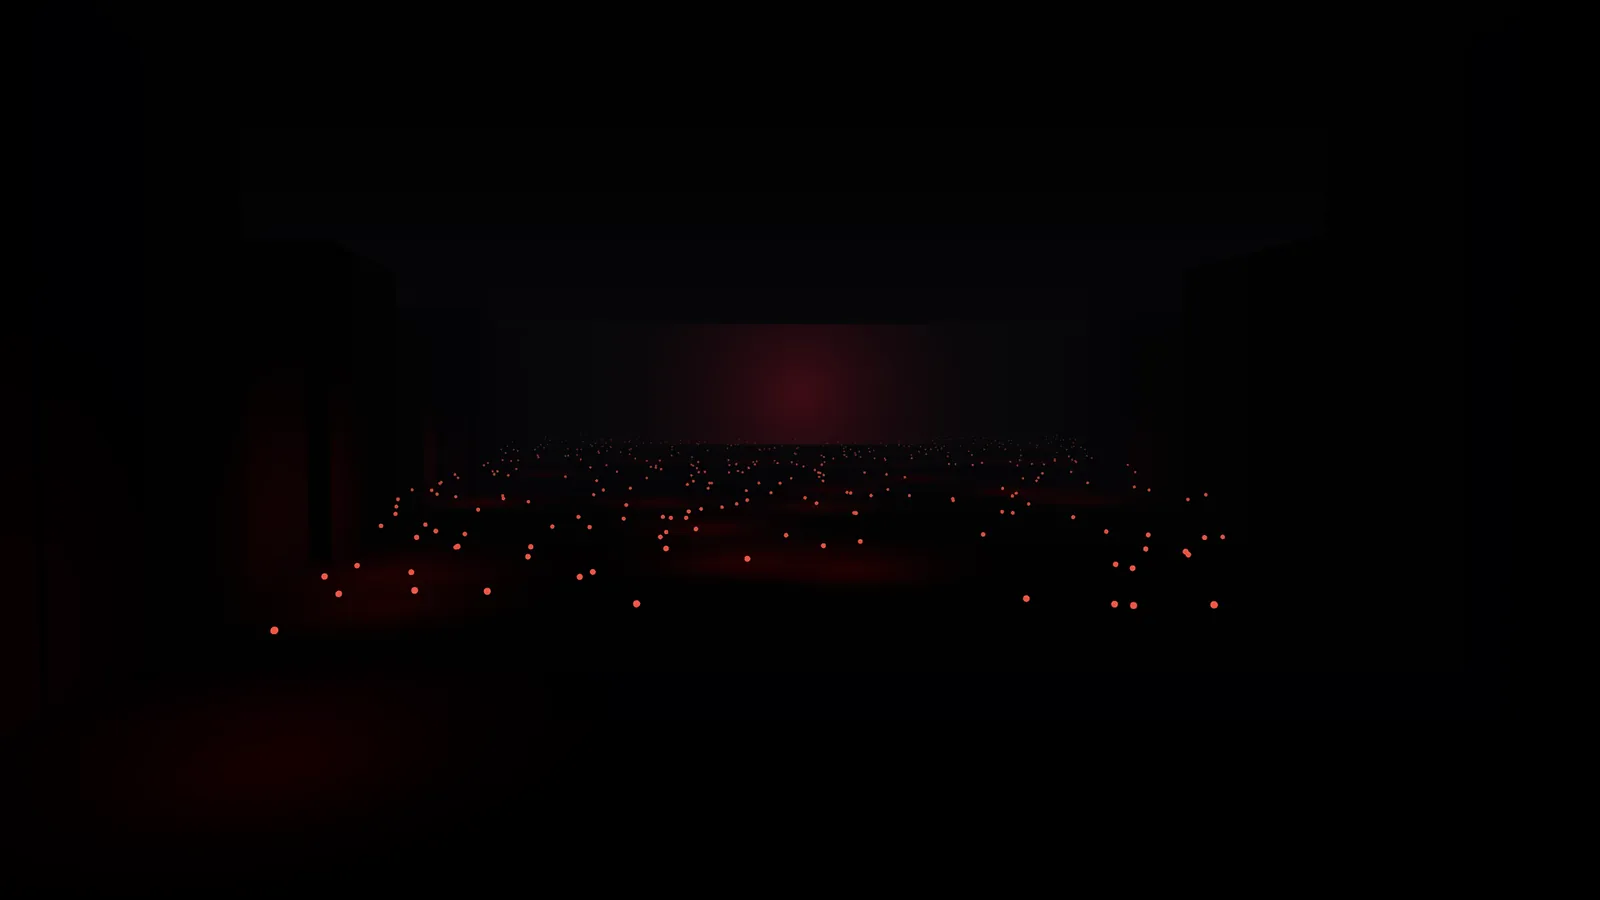
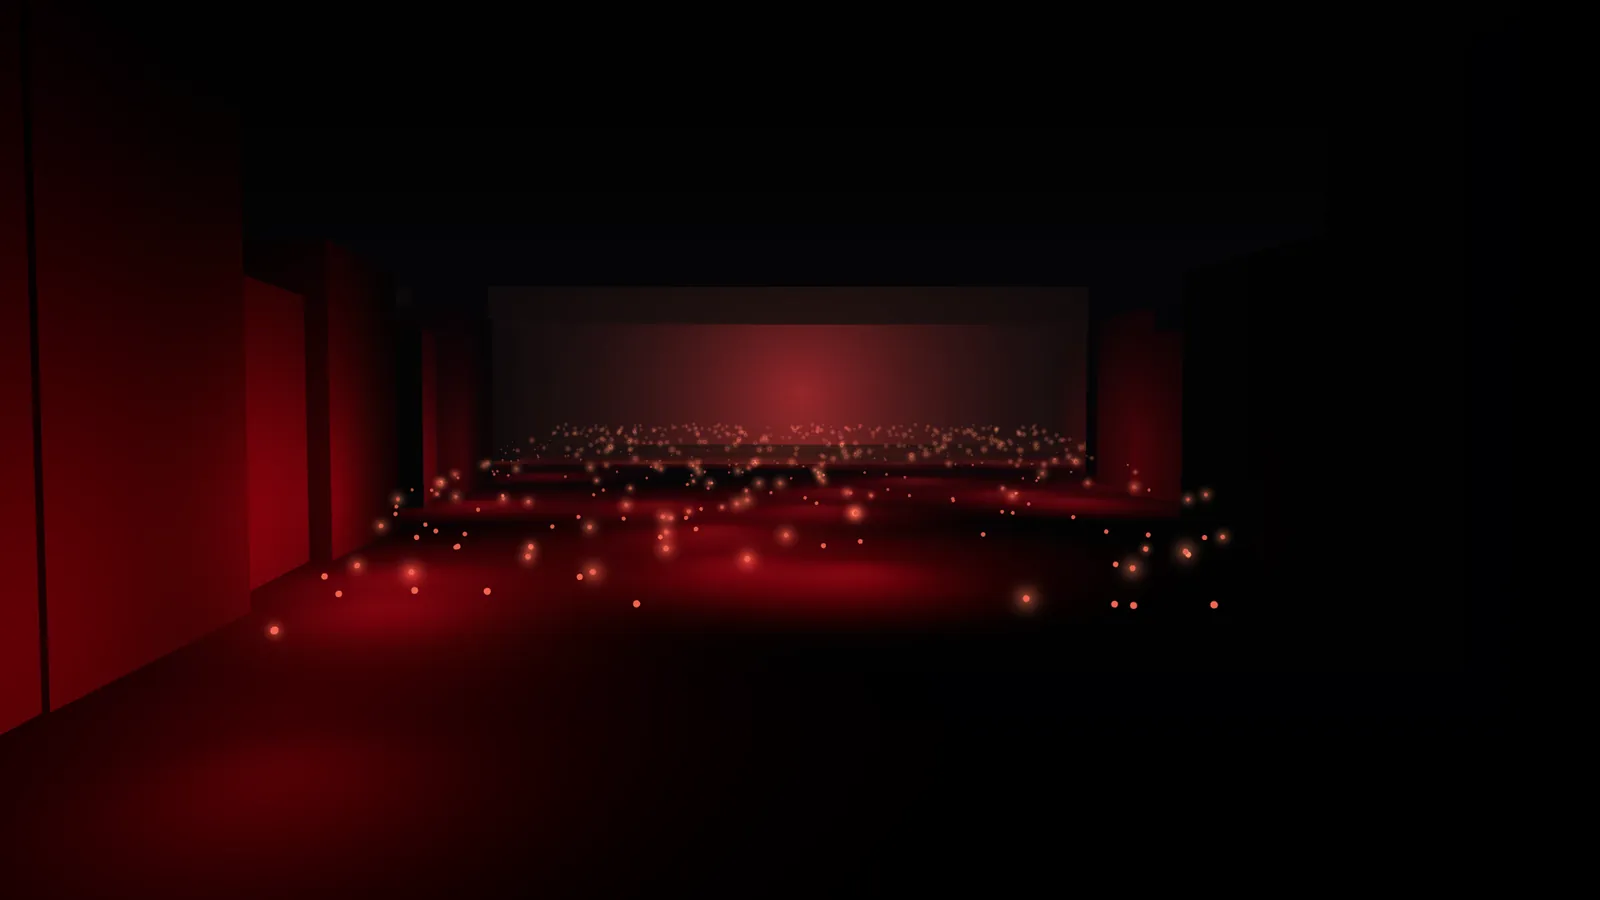
the-rising-archive: fix the black home-page panels
The Story card used a portrait (2:3) book plate as the background of a
wide card; object-cover centre-cropped it to the poster's black lower
half, leaving most of the panel empty. It now uses a purpose-made wide
plate of all six books, placed in the upper half so the card text below
stays clear, and plates in the index anchor to the top.

The Ideas card's "movement" render averaged ~1% brightness and read as
solid black; re-rendered with per-lamp halos, stronger lamp lights and
lighter cavern walls (~4x brighter). Recipes in scripts/art.

Claude-Session: https://claude.ai/code/session_013FcwhpvnvFTAqo8e5UMege

diff --git a/the-rising-archive/components/sections/ArchiveIndex.tsx b/the-rising-archive/components/sections/ArchiveIndex.tsx
@@ -5,7 +5,7 @@ import { cn } from "@/lib/utils";
 import Spotlight from "@/components/archive/Spotlight";
 
 const BRANCHES = [
-  { href: "/story/", title: "The Story", body: "Six books as six chapters in the history of a civilization, and the timeline they sit on.", cta: "Open the story", plate: "/images/books/red-rising.webp", w: 900, h: 1350, span: "md:col-span-4 md:row-span-2 md:min-h-[34rem]" },
+  { href: "/story/", title: "The Story", body: "Six books as six chapters in the history of a civilization, and the timeline they sit on.", cta: "Open the story", plate: "/images/books/shelf.webp", w: 1600, h: 900, span: "md:col-span-4 md:row-span-2 md:min-h-[34rem]" },
   { href: "/people/", title: "The People", body: "Ten faces of power, their dossiers, and what the war took from each of them.", cta: "Open the dossiers", plate: "/images/people/darrow.webp", w: 900, h: 900, span: "md:col-span-2 md:row-span-2" },
   { href: "/world/", title: "The World", body: "Fourteen Colors, five houses, the factions, the planets, the machines.", cta: "Enter the world", plate: "/images/places/mars.webp", w: 900, h: 900, span: "md:col-span-2" },
   { href: "/ideas/", title: "The Ideas", body: "Six questions the saga won’t stop asking.", cta: "Ask them", plate: "/images/rising/movement.webp", w: 1600, h: 900, span: "md:col-span-2" },
@@ -42,7 +42,7 @@ export default function ArchiveIndex() {
                       alt=""
                       width={b.w}
                       height={b.h}
-                      className="absolute inset-0 h-full object-cover opacity-60 transition-[opacity,transform] duration-700 group-hover:scale-[1.03] group-hover:opacity-85"
+                      className="absolute inset-0 h-full object-cover object-top opacity-60 transition-[opacity,transform] duration-700 group-hover:scale-[1.03] group-hover:opacity-85"
                       sizes="(min-width: 768px) 60vw, 100vw"
                     />
                     <div aria-hidden className="absolute inset-0 bg-gradient-to-t from-void via-void/55 to-transparent" />

diff --git a/the-rising-archive/scripts/art/shelf.py b/the-rising-archive/scripts/art/shelf.py
@@ -1,0 +1,32 @@
+"""The home page's wide Story plate: the six book plates side by side on a dark
+table, placed in the upper half so card text below never collides with them.
+Run after the book plates exist in public/images/books/."""
+import os
+import numpy as np
+from PIL import Image, ImageDraw, ImageFilter
+
+HERE = os.path.dirname(os.path.abspath(__file__))
+BOOKS = os.path.join(HERE, "..", "..", "public", "images", "books")
+W, H = 1600, 900
+bg = Image.new("RGB", (W, H), (9, 8, 10))
+glow = Image.new("RGB", (W, H), (0, 0, 0))
+ImageDraw.Draw(glow).ellipse((250, -100, 1350, 560), fill=(70, 14, 18))
+glow = glow.filter(ImageFilter.GaussianBlur(150))
+bg = Image.fromarray(np.clip(np.asarray(bg).astype(int) + np.asarray(glow).astype(int), 0, 255).astype("uint8"))
+names = ["red-rising", "golden-son", "morning-star", "iron-gold", "dark-age", "light-bringer"]
+pw, ph, gap, y0 = 200, 300, 20, 70
+x0 = (W - (6 * pw + 5 * gap)) // 2
+for i, n in enumerate(names):
+    im = Image.open(os.path.join(BOOKS, f"{n}.webp")).convert("RGB").resize((pw, ph), Image.LANCZOS)
+    x, y = x0 + i * (pw + gap), y0 + (0 if i % 2 == 0 else 16)
+    sh = Image.new("L", (W, H), 0)
+    ImageDraw.Draw(sh).rectangle((x + 10, y + 18, x + pw + 10, y + ph + 18), fill=190)
+    bg = Image.composite(Image.new("RGB", (W, H), (0, 0, 0)), bg, sh.filter(ImageFilter.GaussianBlur(16)))
+    bg.paste(im, (x, y))
+    ImageDraw.Draw(bg).rectangle((x, y, x + pw - 1, y + ph - 1), outline=(60, 52, 48))
+a = np.asarray(bg).astype(np.float32) / 255
+yy, xx = np.mgrid[0:H, 0:W]
+r = np.sqrt(((xx - W / 2) / (W * 0.62)) ** 2 + ((yy - H * 0.3) / (H * 0.8)) ** 2)
+a *= np.clip(1.15 - r * 0.55, 0.35, 1)[..., None]
+a += np.random.default_rng(3).normal(0, 0.012, (H, W, 1))
+Image.fromarray((np.clip(a, 0, 1) * 255).astype("uint8")).save(os.path.join(BOOKS, "shelf.webp"), "WEBP", quality=82, method=6)
